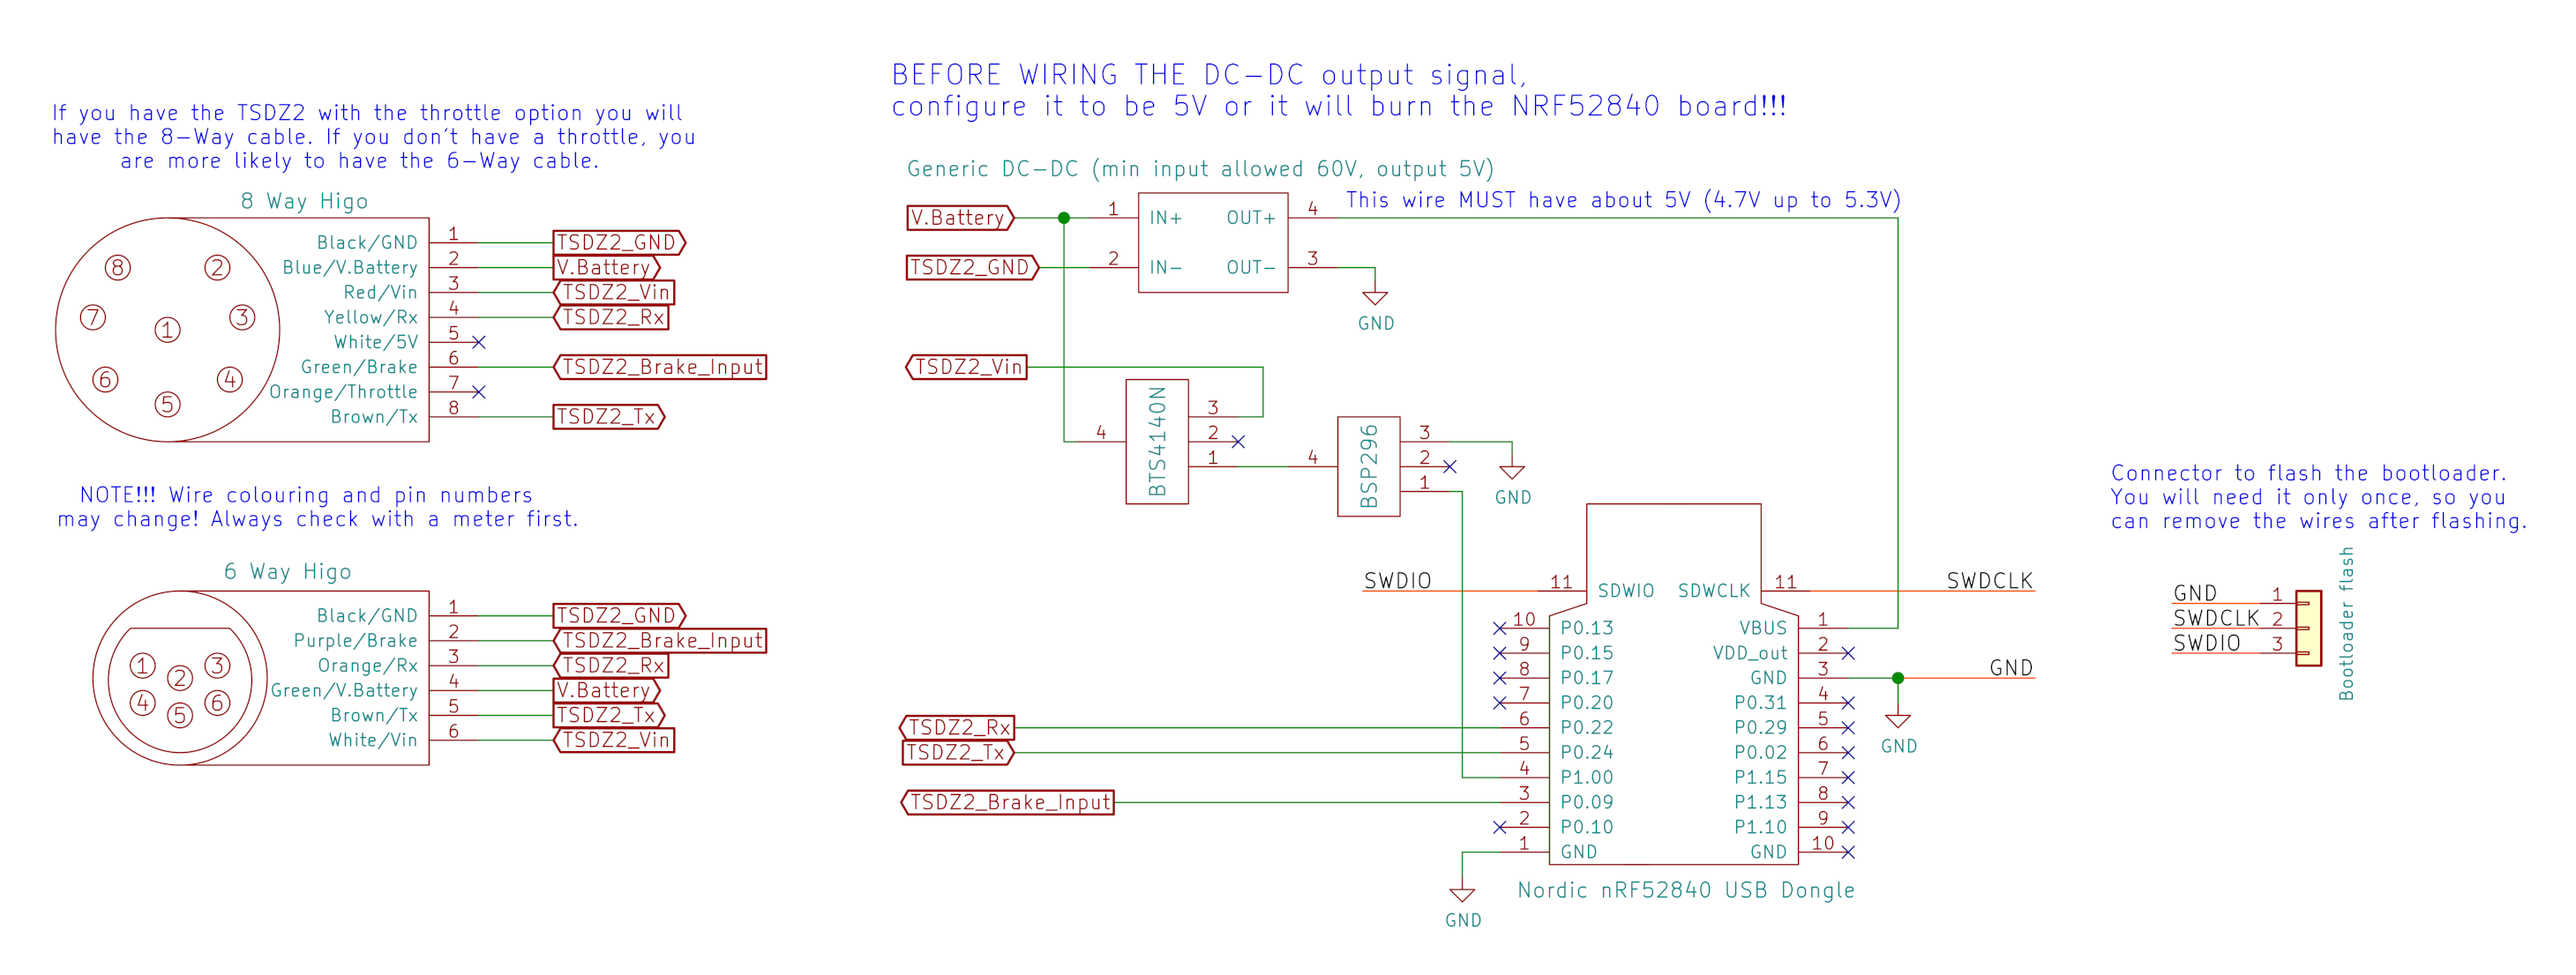
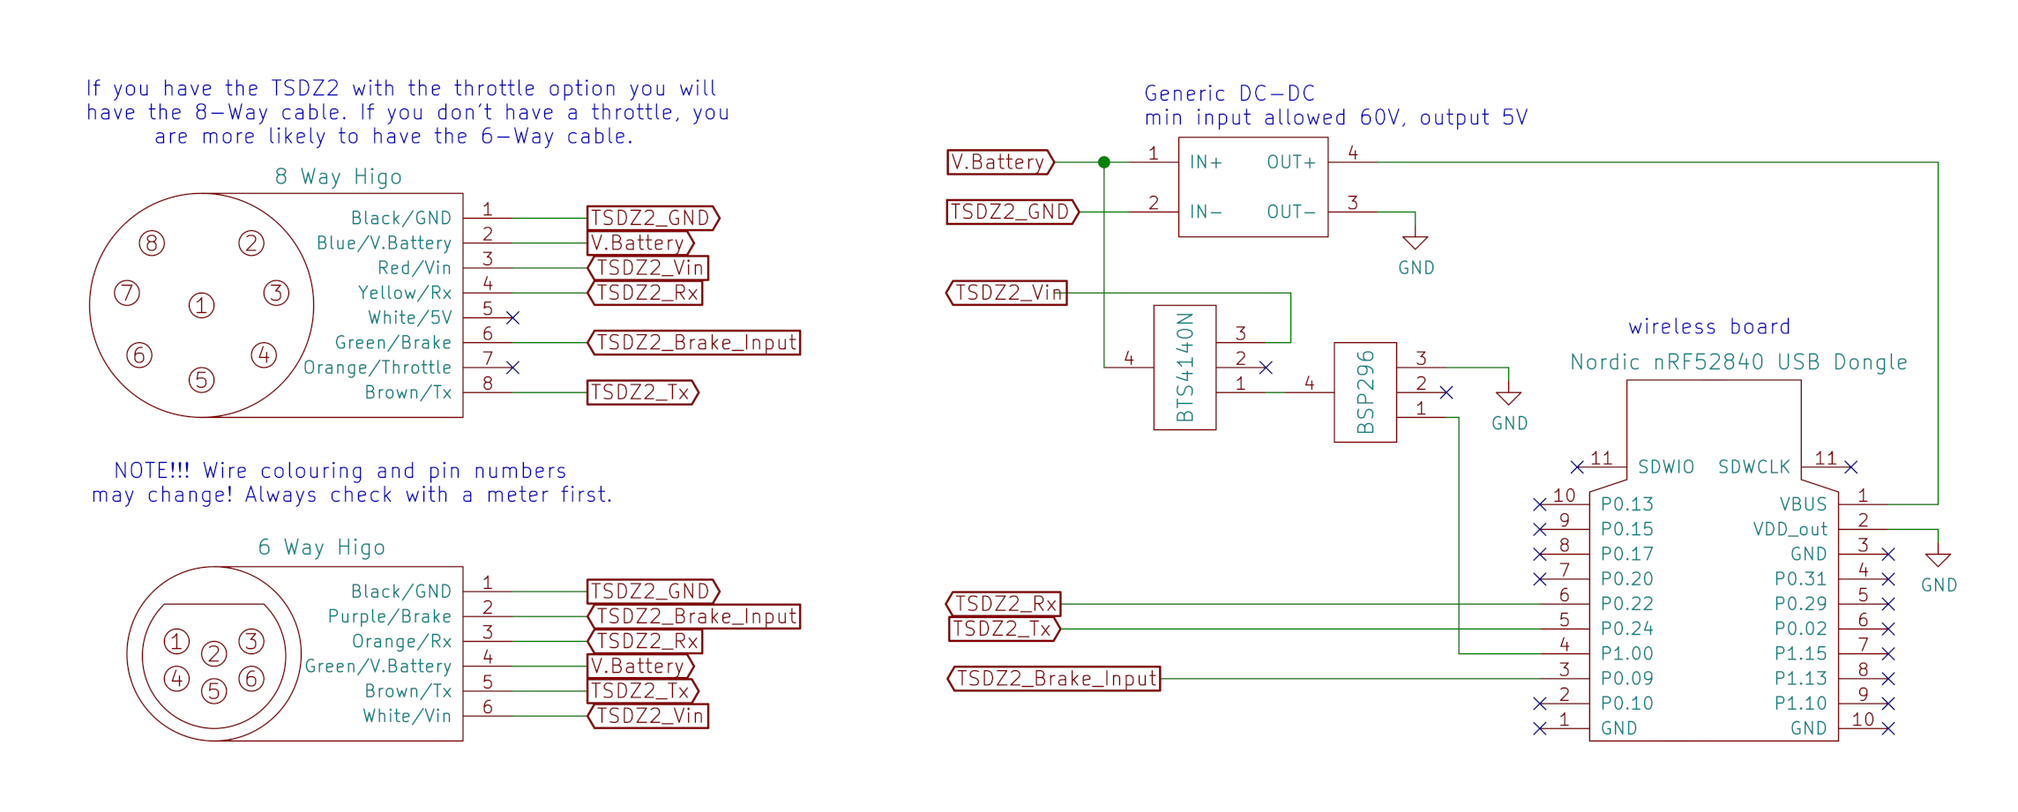
Updated schematics. Added bootloader schematic. Added bootloader, wireless board and remote pages

diff --git a/index.md b/index.md
@@ -14,50 +14,14 @@ This wireless remote costs only 20€ and the battery will work for about 2.5 ye
 - Forum message: [EBike wireless standard (like Specialized Turbo Levo) - OpenSource](https://endless-sphere.com/forums/viewtopic.php?t=106346)
 - Developers: see [documentation](https://github.com/OpenSourceEBike/TSDZ2_wireless/blob/master/documentation/README.md)
 
-## How to build the TSDZ2 wireless board
+# How to build the TSDZ2 wireless board
 
-You will need to acquire the following components:
-* **[Wireless board - nRF52840 Nordic USB Dongle](https://www.nordicsemi.com/Software-and-tools/Development-Kits/nRF52840-Dongle)**: costs 10€ and can be bought in many online shops.<br>
-![](NRF52840.png)<br><br>
-* **60V -> 5V power board - EBike buck dd7818ta 80V -> 5V 1A**: costs 4€ and can be bought in many online shops like EBay, just search for "EBike buck dd7818ta 80". Other DC-DC converters can be used, like the [Traco power TEC-2-4811WI](https://uk.farnell.com/tracopower/tec-2-4811wi/dc-dc-converter-5v-0-4a/dp/2854928). Please note that any DC converter that you choose must have a voltage input of at least 60V and a 5V output.<br><br>
-![](60V_DC_DC.png)<br><br>
-![](tec.png)<br><br>
-* **Power switch BTS4140N**: costs 2€, can be bought on EBay or other shops.<br>
-![](4140.png)<br><br>
-* **Transistor BSP296**: costs 2€, can be bought on EBay or other shops.<br>
-![](bsp296.png)<br><br>
-* **TSDZ2 display extension cable**: costs 6€, can be bought on EBay or other shops.<br>
-![](TSDZ2_cable.png)<br><br>
-
-## Schematic
-
-[![](TSDZ2_wireless-schematic.png)](TSDZ2_wireless-schematic.png)
-
-## Firmware Installation
-
-Once you have put the board assembled you are now ready to program the wireless bootloader.
-follow the instructions [here](https://github.com/OpenSourceEBike/TSDZ2_wireless/tree/master/EBike_wireless_bootloader).
-With the bootloader installed you can now program the Over the Air (OTA) updates for the wireless motor controller located [here](https://github.com/OpenSourceEBike/TSDZ2_wireless/releases)
-
-To program the motor configuration and control the TSDZ2, download and install the android app from here: [https://github.com/OpenSourceEBike/TSDZ2_wireless/releases](https://github.com/OpenSourceEBike/TSDZ2_wireless/releases)
+[TSDZ2 wireless board](TSDZ2_wireless.md)
 
 # Wireless remote
 
-## Schematic
+[TSDZ2 wireless remote](TSDZ2_wireless_remote.md)
 
-[![](ebike_remote_wireless-schematic.png)](ebike_remote_wireless-schematic.png)
+# Install the bootloader
 
-## How to build wireless remote
-You will need to acquire the following components:
-* **[Wireless board - nRF52840 Nordic USB Dongle](https://www.nordicsemi.com/Software-and-tools/Development-Kits/nRF52840-Dongle)**: costs 10€ and can be bought in many online shops.<br>
-![](NRF52840.png)<br><br>
-* **VLCD5 Keypad**: costs 10€, this is the keypad from the TSDZ2 original display. Can be bought in many online shops like EBay".<br>
-![](VLCD5_keypad.png)<br><br>
-* **CR2032 coin cell**: costs 1€, can be bought in any local shop or on EBay or other online shops.
-* <br>
-![](cr2032.png)<br><br><br>
-## Firmware Installation
-
-Once you have put the board assembled you are now ready to program the wireless bootloader.
-follow the instructions [here](https://github.com/OpenSourceEBike/TSDZ2_wireless/tree/master/EBike_wireless_bootloader).
-With the bootloader installed you can now program the Over the Air (OTA) updates for the wireless remote located [here](https://github.com/OpenSourceEBike/TSDZ2_wireless/releases)
+[Bootloader](bootloader.md)

diff --git a/TSDZ2_wireless.md b/TSDZ2_wireless.md
@@ -1,0 +1,26 @@
+# TSDZ2 wireless board
+
+You will need to acquire the following components:
+* **[Wireless board - nRF52840 Nordic USB Dongle](https://www.nordicsemi.com/Software-and-tools/Development-Kits/nRF52840-Dongle)**: costs 10€ and can be bought in many online shops.<br>
+![](NRF52840.png)<br><br>
+* **60V -> 5V power board - EBike buck dd7818ta 80V -> 5V 1A**: costs 4€ and can be bought in many online shops like EBay, just search for "EBike buck dd7818ta 80". Other DC-DC converters can be used, like the [Traco power TEC-2-4811WI](https://uk.farnell.com/tracopower/tec-2-4811wi/dc-dc-converter-5v-0-4a/dp/2854928). Please note that any DC converter that you choose must have a voltage input of at least 60V and a 5V output.<br><br>
+![](60V_DC_DC.png)<br><br>
+![](tec.png)<br><br>
+* **Power switch BTS4140N**: costs 2€, can be bought on EBay or other shops.<br>
+![](4140.png)<br><br>
+* **Transistor BSP296**: costs 2€, can be bought on EBay or other shops.<br>
+![](bsp296.png)<br><br>
+* **TSDZ2 display extension cable**: costs 6€, can be bought on EBay or other shops.<br>
+![](TSDZ2_cable.png)<br><br>
+
+## Schematic
+
+[![](TSDZ2_wireless-schematic.png)](TSDZ2_wireless-schematic.png)
+
+## Firmware Installation
+
+Once you have put the board assembled you are now ready to program the wireless bootloader.
+follow the instructions [here](https://github.com/OpenSourceEBike/TSDZ2_wireless/tree/master/EBike_wireless_bootloader).
+With the bootloader installed you can now program the Over the Air (OTA) updates for the wireless motor controller located [here](https://github.com/OpenSourceEBike/TSDZ2_wireless/releases)
+
+To program the motor configuration and control the TSDZ2, download and install the android app from here: [https://github.com/OpenSourceEBike/TSDZ2_wireless/releases](https://github.com/OpenSourceEBike/TSDZ2_wireless/releases)

diff --git a/TSDZ2_wireless_remote.md b/TSDZ2_wireless_remote.md
@@ -1,0 +1,20 @@
+# Wireless remote
+
+## Schematic
+
+[![](ebike_remote_wireless-schematic.png)](ebike_remote_wireless-schematic.png)
+
+## How to build wireless remote
+You will need to acquire the following components:
+* **[Wireless board - nRF52840 Nordic USB Dongle](https://www.nordicsemi.com/Software-and-tools/Development-Kits/nRF52840-Dongle)**: costs 10€ and can be bought in many online shops.<br>
+![](NRF52840.png)<br><br>
+* **VLCD5 Keypad**: costs 10€, this is the keypad from the TSDZ2 original display. Can be bought in many online shops like EBay".<br>
+![](VLCD5_keypad.png)<br><br>
+* **CR2032 coin cell**: costs 1€, can be bought in any local shop or on EBay or other online shops.
+* <br>
+![](cr2032.png)<br><br><br>
+## Firmware Installation
+
+Once you have put the board assembled you are now ready to program the wireless bootloader.
+follow the instructions [here](https://github.com/OpenSourceEBike/TSDZ2_wireless/tree/master/EBike_wireless_bootloader).
+With the bootloader installed you can now program the Over the Air (OTA) updates for the wireless remote located [here](https://github.com/OpenSourceEBike/TSDZ2_wireless/releases)

diff --git a/bootloader.md b/bootloader.md
@@ -1,0 +1,4 @@
+# Bootloader
+
+
+![](ebike_wireless_bootloader-schematic.png)
